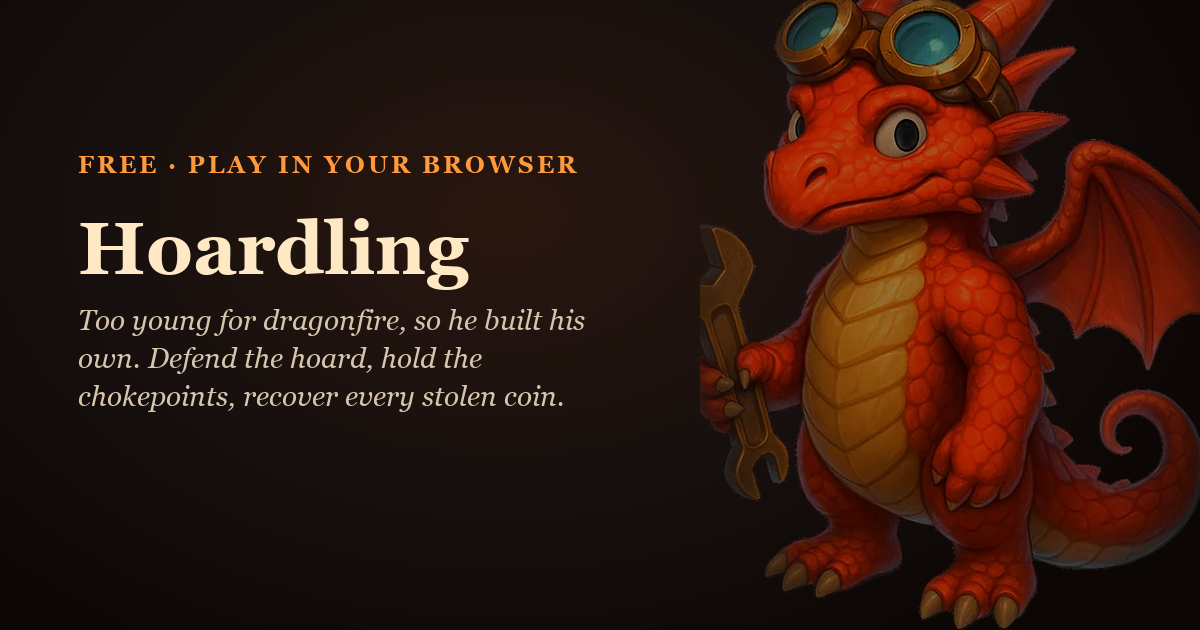
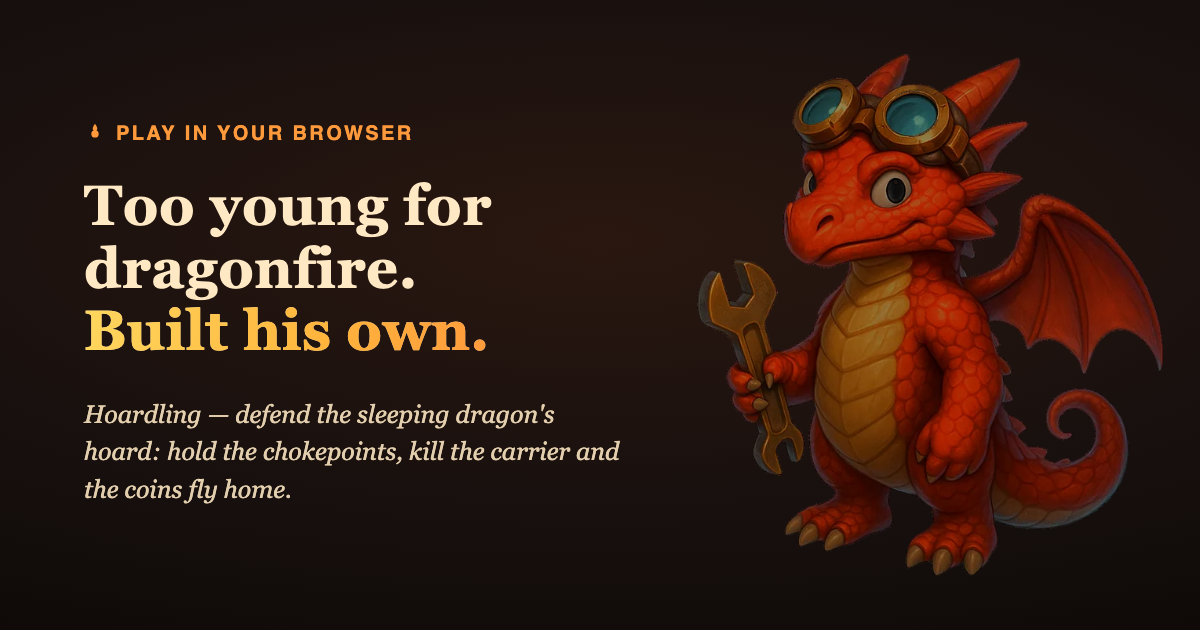
hoardling: the link preview stops promising to recover every stolen coin
The hand-made og plate baked the refuted line into its subhead — the page's
own comment flagged it OPEN since the 2026-08 claims sweep (a laden raider
that escapes is gone for good, game.js:4211; only the kill-the-carrier form
is true, game.js:5054). The plate is now a build_app_og card composed from
the page's own splash palette and its meta-description copy, hash-locked
like the other fourteen; both image metas carry ?v=20260901a. The drift
gate earned its keep on the first render: three invented cream hexes were
refused until every ink was a page literal.

Changed region(s): [[0.5858, 0.0, 1.0, 0.9952], [0.0617, 0.181, 0.5242, 0.8143]]

diff --git a/hoardling/index.html b/hoardling/index.html
@@ -24,18 +24,20 @@
   <meta property="og:title" content="Hoardling">
   <meta property="og:description" content="Too young for dragonfire. Built his own. Defend the sleeping dragon's hoard — hold the chokepoints, kill the carrier and the coins fly home.">
   <meta property="og:url" content="https://hypersage.ai/hoardling/">
-  <!-- OPEN, NEEDS A RECAPTURE: og-image.png still BAKES the refuted line
-       "recover every stolen coin" into its subhead. It is a 1200x630 PNG and
-       cannot be corrected by editing this page, so the link preview keeps
-       claiming what the code disproves until the plate is re-rendered. When it
-       is replaced, bump ?v= on BOTH og:image and twitter:image together. -->
-  <meta property="og:image" content="https://hypersage.ai/hoardling/og-image.png">
+  <!-- RESOLVED 2026-09-01: the plate is rendered by tools/build_app_og.py
+       ("hoardling" card, hash-locked via og-image.inputs.sha256) from this
+       page's own splash palette and its meta-description copy — the refuted
+       "recover every stolen coin" subhead is gone; the subhead now carries the
+       conditional truth ("kill the carrier and the coins fly home",
+       game.js:5054-5058). Never hand-edit the PNG: rerun the tool, and bump
+       ?v= on BOTH og:image and twitter:image together. -->
+  <meta property="og:image" content="https://hypersage.ai/hoardling/og-image.png?v=20260901a">
   <meta property="og:image:width" content="1200">
   <meta property="og:image:height" content="630">
   <meta name="twitter:card" content="summary_large_image">
   <meta name="twitter:title" content="Hoardling">
   <meta name="twitter:description" content="Too young for dragonfire. Built his own.">
-  <meta name="twitter:image" content="https://hypersage.ai/hoardling/og-image.png">
+  <meta name="twitter:image" content="https://hypersage.ai/hoardling/og-image.png?v=20260901a">
   <!-- installable PWA: "Add to Home Screen" gives a fullscreen portrait app -->
   <link rel="manifest" href="manifest.json?v=20260824a">
   <link rel="icon" type="image/png" sizes="192x192" href="art/icon-192.png?v=85d6295b91">

diff --git a/tools/build_app_og.py b/tools/build_app_og.py
@@ -435,6 +435,37 @@ CARDS = {
         "h1": 'Dig the jar.<br>Feed the <span class="grad">dragon.</span>',
         "sub": "Every gem and rock is real physics: pull one out and the whole pile settles. Fill the orders on the line \u2014 and decide what the dragon keeps.",
     },
+    # Replaces the hand-made 2026-08 plate whose baked subhead said "recover
+    # every stolen coin" \u2014 refuted by game.js:4211-4215 (a laden raider that
+    # reaches the exit escapes permanently) and called out as OPEN in the page's
+    # own og:image comment. Copy below is the page's meta description verbatim,
+    # which carries the conditional truth: kill the carrier and the coins fly
+    # home (game.js:5054-5058 credits the carried amount back).
+    "hoardling": {
+        "art": "art/hero_title.webp",
+        "css": """
+  /* Every colour is the page's own #boot splash: bg radial #2a1710->#17100e->
+     #0c0705, gold mark #ffd75e over #7a4a12, italic sub #ff9a3c, cream track
+     rgba(255,233,196,*). The page ships no webfont; Georgia is its stack. */
+  .og { background:
+        radial-gradient(120% 80% at 50% 38%, #2a1710 0%, #17100e 55%, #0c0705 100%); }
+  .kicker { color: #ff9a3c; font-size: 20px; letter-spacing: 0.12em; white-space: nowrap; }
+  /* The cream is the page's own boot-track ink rgba(255,233,196,*) at text
+     strength; every hex is a page literal. */
+  h1 { font-family: Georgia, 'Times New Roman', serif; font-weight: 700;
+       font-size: 56px; letter-spacing: 0.01em;
+       background-image: linear-gradient(178deg, rgba(255,233,196,1) 55%, rgba(255,233,196,0.62) 160%); }
+  h1 .grad { background-image: linear-gradient(100deg, #ffd75e, #ffb43c 60%, #ff9a3c); }
+  .sub { font-family: Georgia, 'Times New Roman', serif; font-style: italic;
+         color: rgba(255,233,196,0.88); max-width: 545px; font-size: 25px; }
+  /* hero_title.webp is 596x662; 470x522 keeps the whole dragon, wrench to tail. */
+  .art { width: 470px; height: 522px; object-fit: contain; }
+""",
+        "kicker_svg": '<svg viewBox="0 0 24 24" fill="currentColor"><circle cx="12" cy="13" r="4"/><path d="M12 2c1.6 2.1 2.5 3.9 2.5 5.6A2.6 2.6 0 0 1 12 10a2.6 2.6 0 0 1-2.5-2.4C9.5 5.9 10.4 4.1 12 2z"/></svg>',
+        "kicker": "Play in your browser",
+        "h1": 'Too young for dragonfire.<br><span class="grad">Built his own.</span>',
+        "sub": "Hoardling \u2014 defend the sleeping dragon's hoard: hold the chokepoints, kill the carrier and the coins fly home.",
+    },
     "holohound": {
         "art": "app-icon.png",
         "css": """
